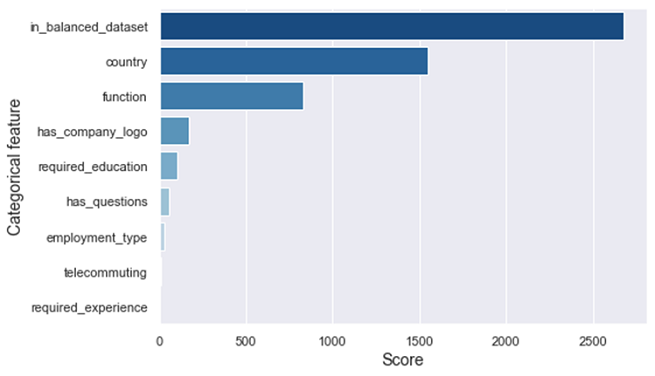
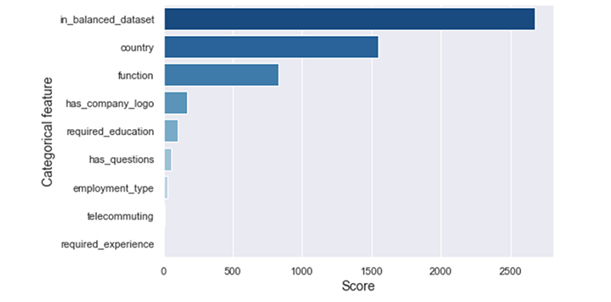
Update image paths to google links

diff --git a/portfolio/student-performance/index.html b/portfolio/student-performance/index.html
@@ -134,13 +134,13 @@
 </ol>
 <blockquote>
 <h5 id="results">Results</h5>
-<p><figure><img src="images/portfolio/student-default-result.png"/>
+<p><figure><img src="https://drive.google.com/uc?export=view&amp;id=1UqwFKUQQLQ7e8e_Egy5ShTni1XtDkfje"/>
 </figure>
 
 By using 2 types of algorithms which were <strong>XGBoost classifier</strong> and <strong>Catboost classifier</strong>, the best results were extracted. Through the use of both oversampling and SMOTE sampling, it was observed that <strong>oversampling</strong> outperformed SMOTE sampling and the models with the highest recall for fail class were all models trained with oversampled datasets. Looking at the results table, even though the highest accuracies attained were from models trained with original imbalanced datasets, but recall is a more important metric and oversampled models produced the highest recall values of 81.34% and 84.91% for XGBoost and Catboost respectively. Unfortunately, the use of <strong>dimensionality reduction did not improve the model performance</strong> but significantly worsened the fail class recall values.</p>
 </blockquote>
 <h5 id="analysis-of-best-model-results">Analysis of Best Model Results</h5>
-<p><figure><img src="images/portfolio/student-conf-over.png"/>
+<p><figure><img src="https://drive.google.com/uc?export=view&amp;id=10N1ONPbkwRS9j9HI3dqbOfZ-nFJkj5RV"/>
 </figure>
 
 If we observe the confusion matrix for Catboost with oversampling, it is obvious that the accuracy of 87.97% may not be the best one when compared with Catboost trained with the original imbalanced dataset with accuracy of 89.68%, but comparing fail class recalls showed a <strong>significant difference of 8.45%</strong> whereby the Catboost trained with imbalanced data only obtained 76.46% recall. This concluded the fact that sampling techniques are extremely crucial when dealing with imbalanced data. With this, the findings of this projects were acquired and the objectives were also achieved.</p>

diff --git a/portfolio/ecommerce/index.html b/portfolio/ecommerce/index.html
@@ -133,13 +133,13 @@
 </ol>
 <blockquote>
 <h5 id="clustering-results">Clustering Results</h5>
-<p><figure><img src="images/portfolio/ecommerce-snakeplot.png"/>
+<p><figure><img src="https://drive.google.com/uc?export=view&amp;id=12IQwEwVtdVR9JzsUGSa8yM54Bx0hWoxC"/>
 </figure>
 
 The experiment for customer segmentation included the use of <strong>K-means clustering</strong> and <strong>hierarchical clustering</strong> and based on the silhouette score analysis and elbow method, it was decided that 4 clusters were suitable for the project. The figure above illustrated the <strong>RFM customer segmentation results</strong> in terms of snake plot for <strong>K-means clustering</strong>, showing that 4 types of customer segments were identified which are <strong>at-risk</strong> customers (cluster 0), <strong>recent</strong> customers (cluster 1), <strong>lost/churned</strong> customers (cluster 2), and <strong>champion/loyal</strong> customers (cluster 3). Each of the segments demonstrated different behaviours which can be analysed through the RFM features.</p>
 </blockquote>
 <h5 id="a-priori-results">A-Priori Results</h5>
-<p><figure><img src="images/portfolio/ecommerce-boxplot.png"/>
+<p><figure><img src="https://drive.google.com/uc?export=view&amp;id=1hIleVRczIXmKBnHTUbKR20gFGXlo8NLD"/>
 </figure>
 
 As for market basket analysis, <strong>frequent item sets</strong> and <strong>association rules</strong> were successfully extracted using <strong>A-Priori algorithm</strong> for both K-means customer segments and hierarchical customer segments. Brief graphical analyses were also carried out by comparing the support, confidence and lift distribution of different customer segments. Besides that, the total count of frequent item sets that were obtained were also compared using graphs. The figure above demonstrates the support distribution of the 4 customer segments that were extracted for K-means clustering and the differences can be seen clearly.</p>

diff --git a/portfolio/recruitment-scam/index.html b/portfolio/recruitment-scam/index.html
@@ -134,11 +134,11 @@
 <blockquote>
 <h5 id="results">Results</h5>
 <p>Among all the structured data in the cleaned dataset, the <strong>chi-square scores</strong> graph showed that most of the categorical variables illustrated some degree of significance towards the fraudulent target variable except for <strong>telecommuting</strong> and <strong>required_experience</strong> which displayed scores that are close to zero.
-<figure><img src="images/portfolio/recruitment-chisquare.png"/>
+<figure><img src="https://drive.google.com/uc?export=view&amp;id=1KbxPU_zO8ibPz-gAlv8wDiU_zCLJTRWN"/>
 </figure>
 
 It was discovered that <strong>oversampling technique</strong> generally produced the highest recall for the minority fraud class compared to original dataset and dataset with SMOTE sampling applied, and the <strong>combination of TFIDF vectorizer with oversampling</strong> gives the best results when looking at <strong>recall for fraud class</strong> with a value of 88.67%. Among all oversampled models, the model trained with TFIDF vectorizer also yielded the <strong>highest accuracy</strong> of 98.95%. One interesting finding that was obtained is that using mixed data with bidirectional LSTM neural network produced results that were worse than using unstructured text alone.
-<figure><img src="images/portfolio/recruitment-results-tfidf.png"/>
+<figure><img src="https://drive.google.com/uc?export=view&amp;id=1ULrbagqiltQa9-4lbNOUiUBF4Zj2NNEk"/>
 </figure>
 </p>
 </blockquote>

diff --git a/portfolio/uber-lyft/index.html b/portfolio/uber-lyft/index.html
@@ -134,11 +134,11 @@
 <blockquote>
 <h5 id="results">Results</h5>
 <p>From the correlation heatmap shown above, most numeric features do not have strong correlation with price per mile which is the target except for some obvious features like <strong>price</strong> and <strong>distance</strong>.
-<figure><img src="images/portfolio/uber-corr.png"/>
+<figure><img src="https://drive.google.com/uc?export=view&amp;id=1GlvFmXCTSIPOEQMeV-7BrwOdySecn0LG"/>
 </figure>
 
 Using the <strong>PyCaret</strong> library for machine learning, the comparison shows that <strong>Catboost regressor</strong> model has the best performance, followed by <strong>XGBoost regressor</strong> and <strong>Light Gradient Boosting Machine</strong>, obtaining a RMSE value of 0.9168 and a R-squared of 0.9857. After performing <strong>grid search hyperparameter tuning</strong> on Catboost regressor, the best performances of the model were shown to be 0.9020 for RMSE and 0.9860 for R-squared.
-<figure><img src="images/portfolio/uber-result.png"/>
+<figure><img src="https://drive.google.com/uc?export=view&amp;id=1ge_fwSoUDVFoxpi6og4ivZlWVKsJb4M6"/>
 </figure>
 </p>
 </blockquote>
